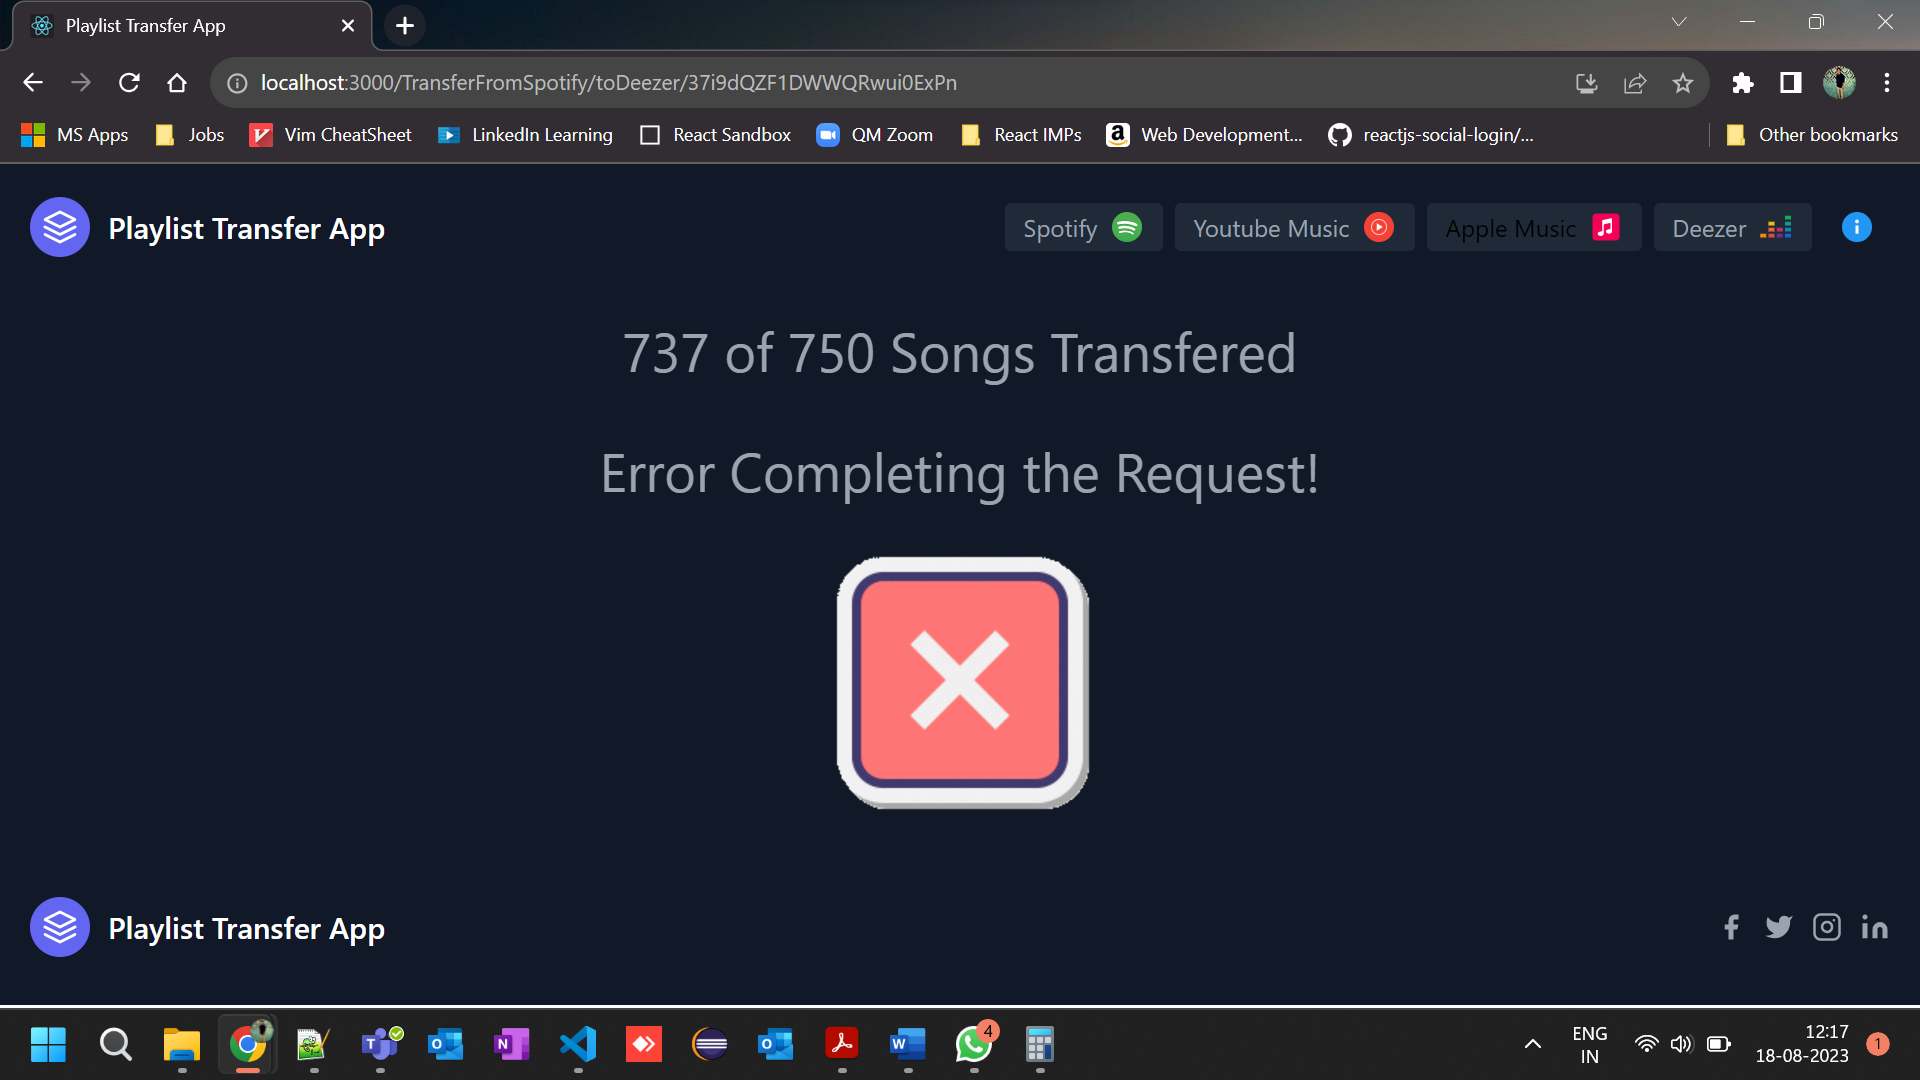
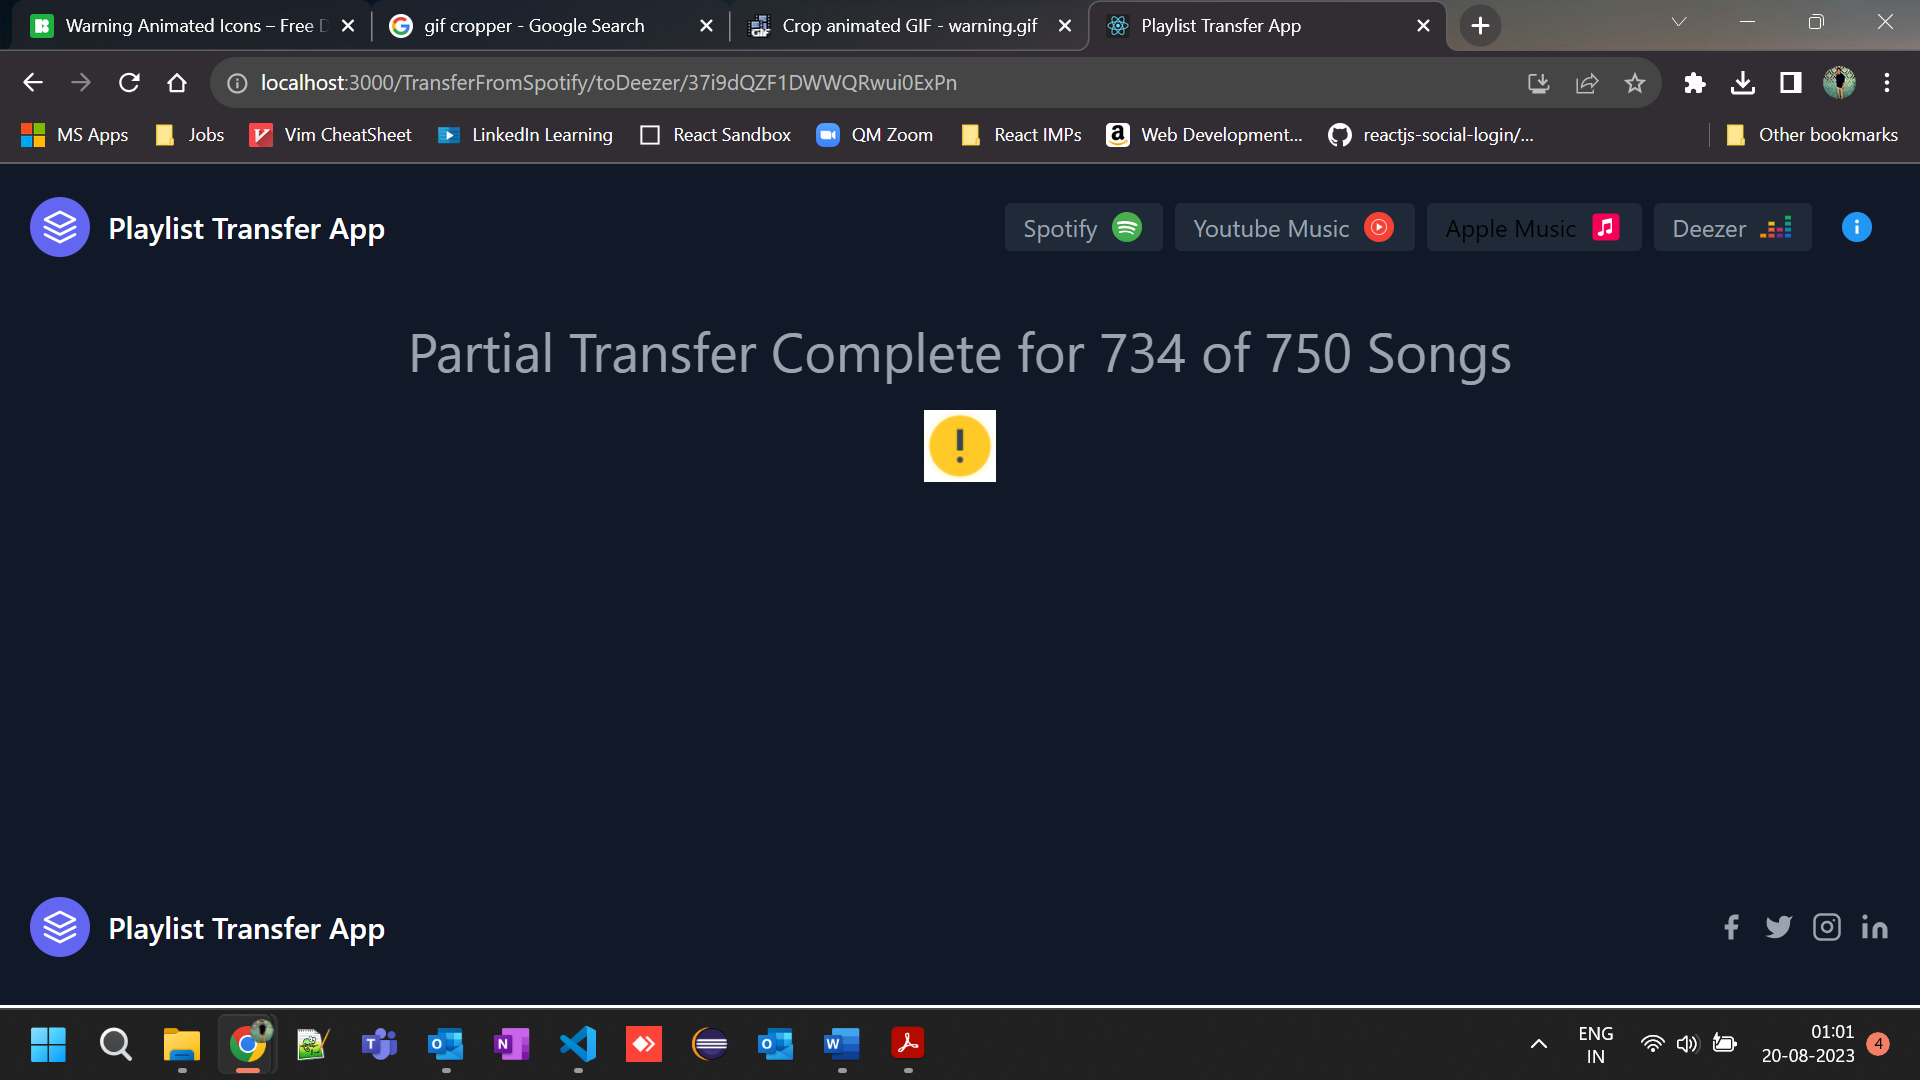
added partial transfer complete page and screenshots of pages

diff --git a/react_app/src/components/TransferFromSpotify.js b/react_app/src/components/TransferFromSpotify.js
@@ -4,6 +4,7 @@ import axios from "axios";
 import TransferLoading from "./TransferLoading";
 import TransferComplete from "./TransferComplete";
 import TransferError from "./TransferError";
+import PartialTransferComplete from "./PartialTransferComplete";
 
 const TransferFromSpotify = () => {
     const { playlistId } = useParams();
@@ -63,6 +64,17 @@ const TransferFromSpotify = () => {
                         {responseFromBE.data.TotalSongs} Songs
                     </div>
                     <TransferComplete />
+                </div>
+            ) : responseFromBE.status === 207 &&
+              responseFromBE.data &&
+              responseFromBE.data.CurrentSuccessfulTransfers > 0 ? (
+                <div>
+                    <div className="text-gray-400 bg-gray-900 body-font text-center px-10 py-5 text-4xl w-full">
+                        Partial Transfer Complete for{" "}
+                        {responseFromBE.data.CurrentSuccessfulTransfers} of{" "}
+                        {responseFromBE.data.TotalSongs} Songs
+                    </div>
+                    <PartialTransferComplete />
                 </div>
             ) : (
                 responseFromBE.data && (

diff --git a/react_app/src/components/TransferFromYoutubeMusic.js b/react_app/src/components/TransferFromYoutubeMusic.js
@@ -4,6 +4,7 @@ import axios from "axios";
 import TransferLoading from "./TransferLoading";
 import TransferComplete from "./TransferComplete";
 import TransferError from "./TransferError";
+import PartialTransferComplete from "./PartialTransferComplete";
 
 const TransferFromYoutubeMusic = () => {
     const { playlistId } = useParams();
@@ -54,6 +55,15 @@ const TransferFromYoutubeMusic = () => {
                         {responseFromBE.data.TotalSongs} Songs
                     </div>
                     <TransferComplete />
+                </div>
+            ) : responseFromBE.status === 207 && responseFromBE.data ? (
+                <div>
+                    <div className="text-gray-400 bg-gray-900 body-font text-center px-10 py-5 text-4xl w-full">
+                        Partial Transfer Complete for{" "}
+                        {responseFromBE.data.CurrentSuccessfulTransfers} of{" "}
+                        {responseFromBE.data.TotalSongs} Songs
+                    </div>
+                    <PartialTransferComplete />
                 </div>
             ) : (
                 responseFromBE.data && (

diff --git a/react_app/src/components/TransferFromDeezer.js b/react_app/src/components/TransferFromDeezer.js
@@ -4,6 +4,7 @@ import axios from "axios";
 import TransferLoading from "./TransferLoading";
 import TransferComplete from "./TransferComplete";
 import TransferError from "./TransferError";
+import PartialTransferComplete from "./PartialTransferComplete";
 
 const TransferFromDeezer = () => {
     const { playlistId } = useParams();
@@ -54,6 +55,15 @@ const TransferFromDeezer = () => {
                         {responseFromBE.data.TotalSongs} Songs
                     </div>
                     <TransferComplete />
+                </div>
+            ) : responseFromBE.status === 207 && responseFromBE.data ? (
+                <div>
+                    <div className="text-gray-400 bg-gray-900 body-font text-center px-10 py-5 text-4xl w-full">
+                        Partial Transfer Complete for{" "}
+                        {responseFromBE.data.CurrentSuccessfulTransfers} of{" "}
+                        {responseFromBE.data.TotalSongs} Songs
+                    </div>
+                    <PartialTransferComplete />
                 </div>
             ) : (
                 responseFromBE.data && (

diff --git a/react_app/src/components/PartialTransferComplete.js b/react_app/src/components/PartialTransferComplete.js
@@ -1,0 +1,14 @@
+import React from "react";
+import PartialCompleteGif from "../assets/warning.gif";
+
+const PartialTransferComplete = () => {
+    return (
+        <div class="text-gray-400 bg-gray-900 body-font h-[52vh]">
+            <span class="flex flex-wrap justify-center items-center">
+                <img src={PartialCompleteGif} alt="Partial Transfer Complete" />
+            </span>
+        </div>
+    );
+};
+
+export default PartialTransferComplete;

diff --git a/api/django_app/views.py b/api/django_app/views.py
@@ -114,15 +114,16 @@ def getDataFromDeezer(request, destinationValue, playlistId, accessTokendeezer, 
 
     # step 1, get data from Deezer 
 
-    DeezerURLPlaylist = "https://api.deezer.com/playlist/"+ playlistId + "/tracks?output=json&access_token="+accessTokendeezer
+    DeezerURLPlaylist = "https://api.deezer.com/playlist/"+ playlistId + "?output=json&access_token="+accessTokendeezer
 
     DeezerPlaylistResponse = requests.request(
         "GET", DeezerURLPlaylist, headers=DeezerHeaders)
+    # print(DeezerPlaylistResponse.json())
     
     # step 2, get song IDs from Deezer data 
 
     DeezerTrackIDValue = []
-    for item in DeezerPlaylistResponse.json()['data']:
+    for item in DeezerPlaylistResponse.json()['tracks']['data']:
         DeezerTrackIDValue.append(item['id'])
     # print(DeezerTrackIDValue)
     
